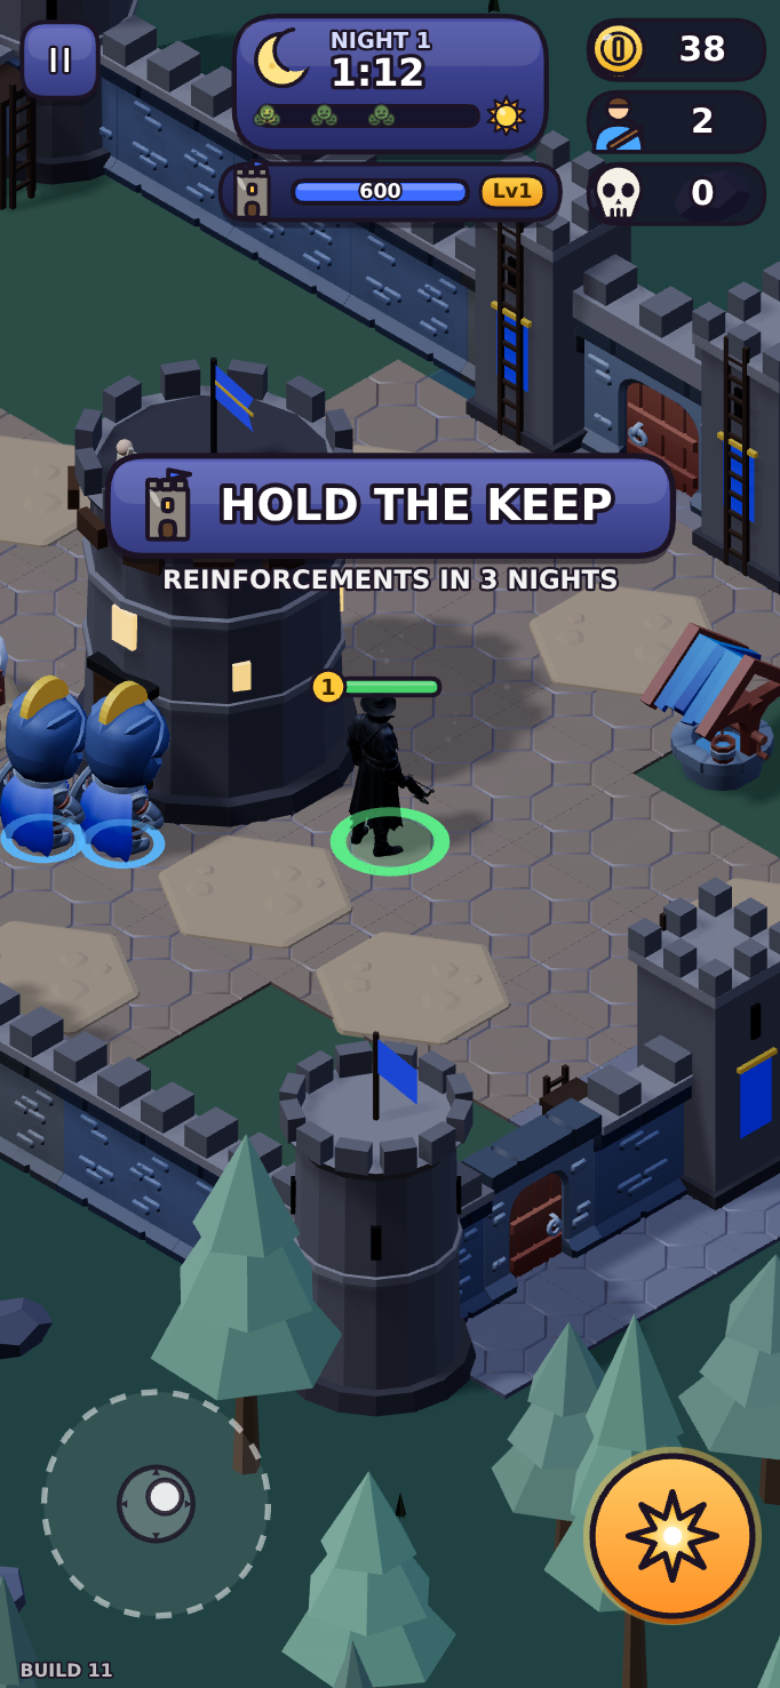
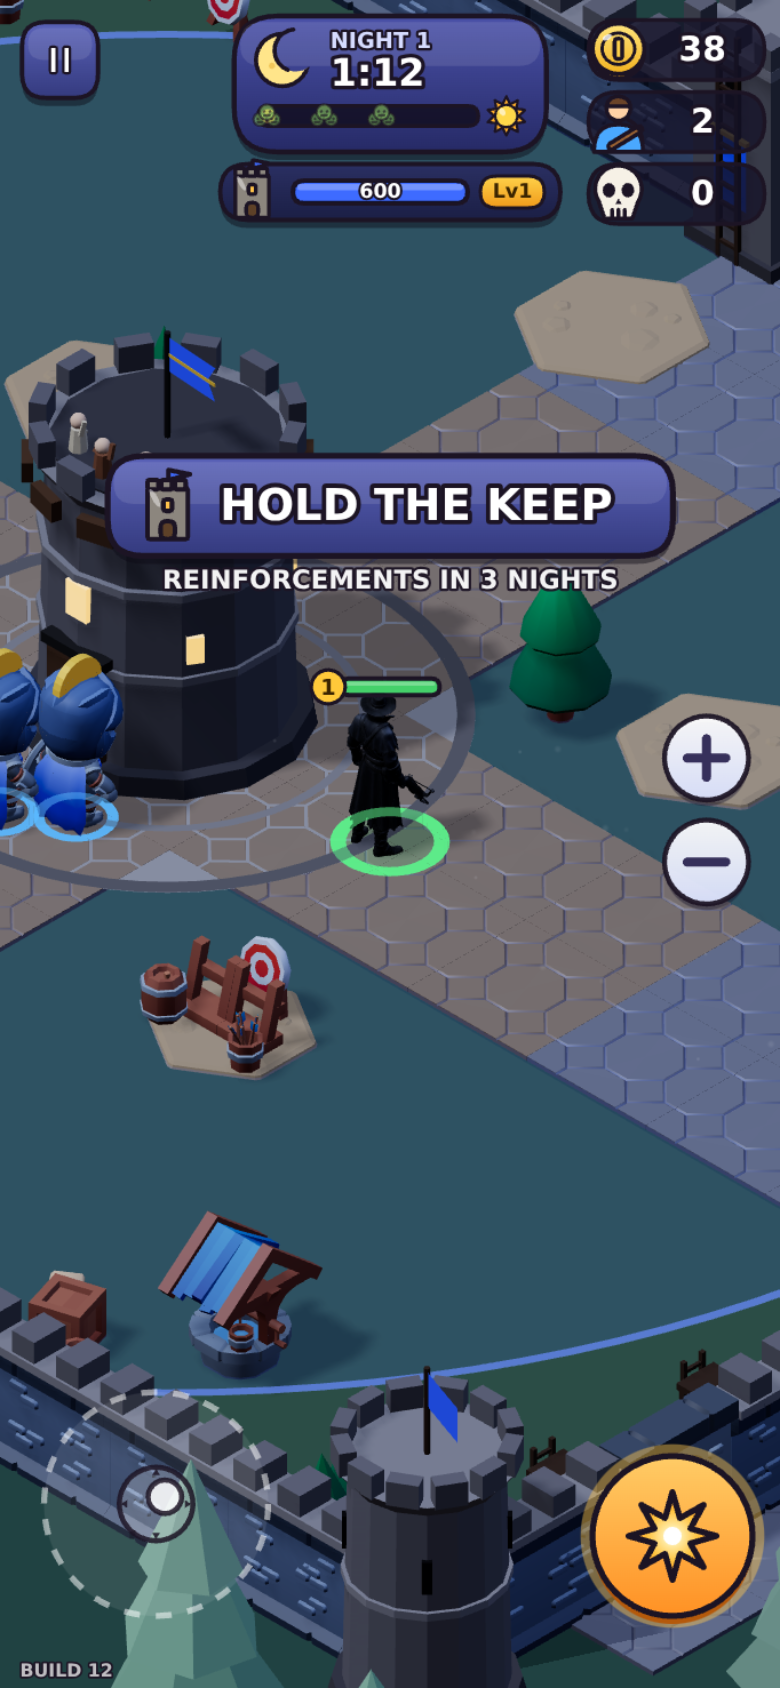
BUILD 12: kit decor merges into one mesh (the pack's one atlas), survival-look overview + close-up, CREDITS notes, before/after evidence

diff --git a/src/game/world3d.js b/src/game/world3d.js
@@ -97,16 +97,16 @@ const PARTICLE_FRAGMENT_SHADER = `
 function mergeKitStatic(group) {
   group.updateMatrixWorld(true);
   const inverse = new THREE.Matrix4().copy(group.matrixWorld).invert();
-  // each kit file loads its own copy of the pack's one atlas material: pieces
-  // whose materials look the same (type, colour, the atlas image) share a mesh
+  // each kit file loads its own copy of the pack's one atlas material (every
+  // KayKit Medieval Hexagon file names it 'hexagons_medieval' and points at
+  // hexagons_medieval.png): pieces whose materials match by name, type,
+  // colour and atlas size share a mesh; an unnamed material only its own
   const signature = (material) => {
-    if (Array.isArray(material)) return material;
+    if (Array.isArray(material) || !material.name) return material;
     const map = material.map;
-    const image = map && map.source && map.source.data;
-    const src = image && (image.currentSrc || image.src);
-    const key = [material.type, material.color ? material.color.getHex() : '', material.transparent ? 't' : '',
-      material.side, src || (map ? map.uuid : 'nomap'), material.vertexColors ? 'vc' : ''].join('|');
-    return src || !map ? key : material;
+    const image = map && map.image;
+    return [material.name, material.type, material.color ? material.color.getHex() : '', material.transparent ? 't' : '',
+      material.side, map ? `${image && image.width}x${image && image.height}` : 'nomap', material.vertexColors ? 'vc' : ''].join('|');
   };
   const buckets = new Map();
   group.traverse((obj) => {
